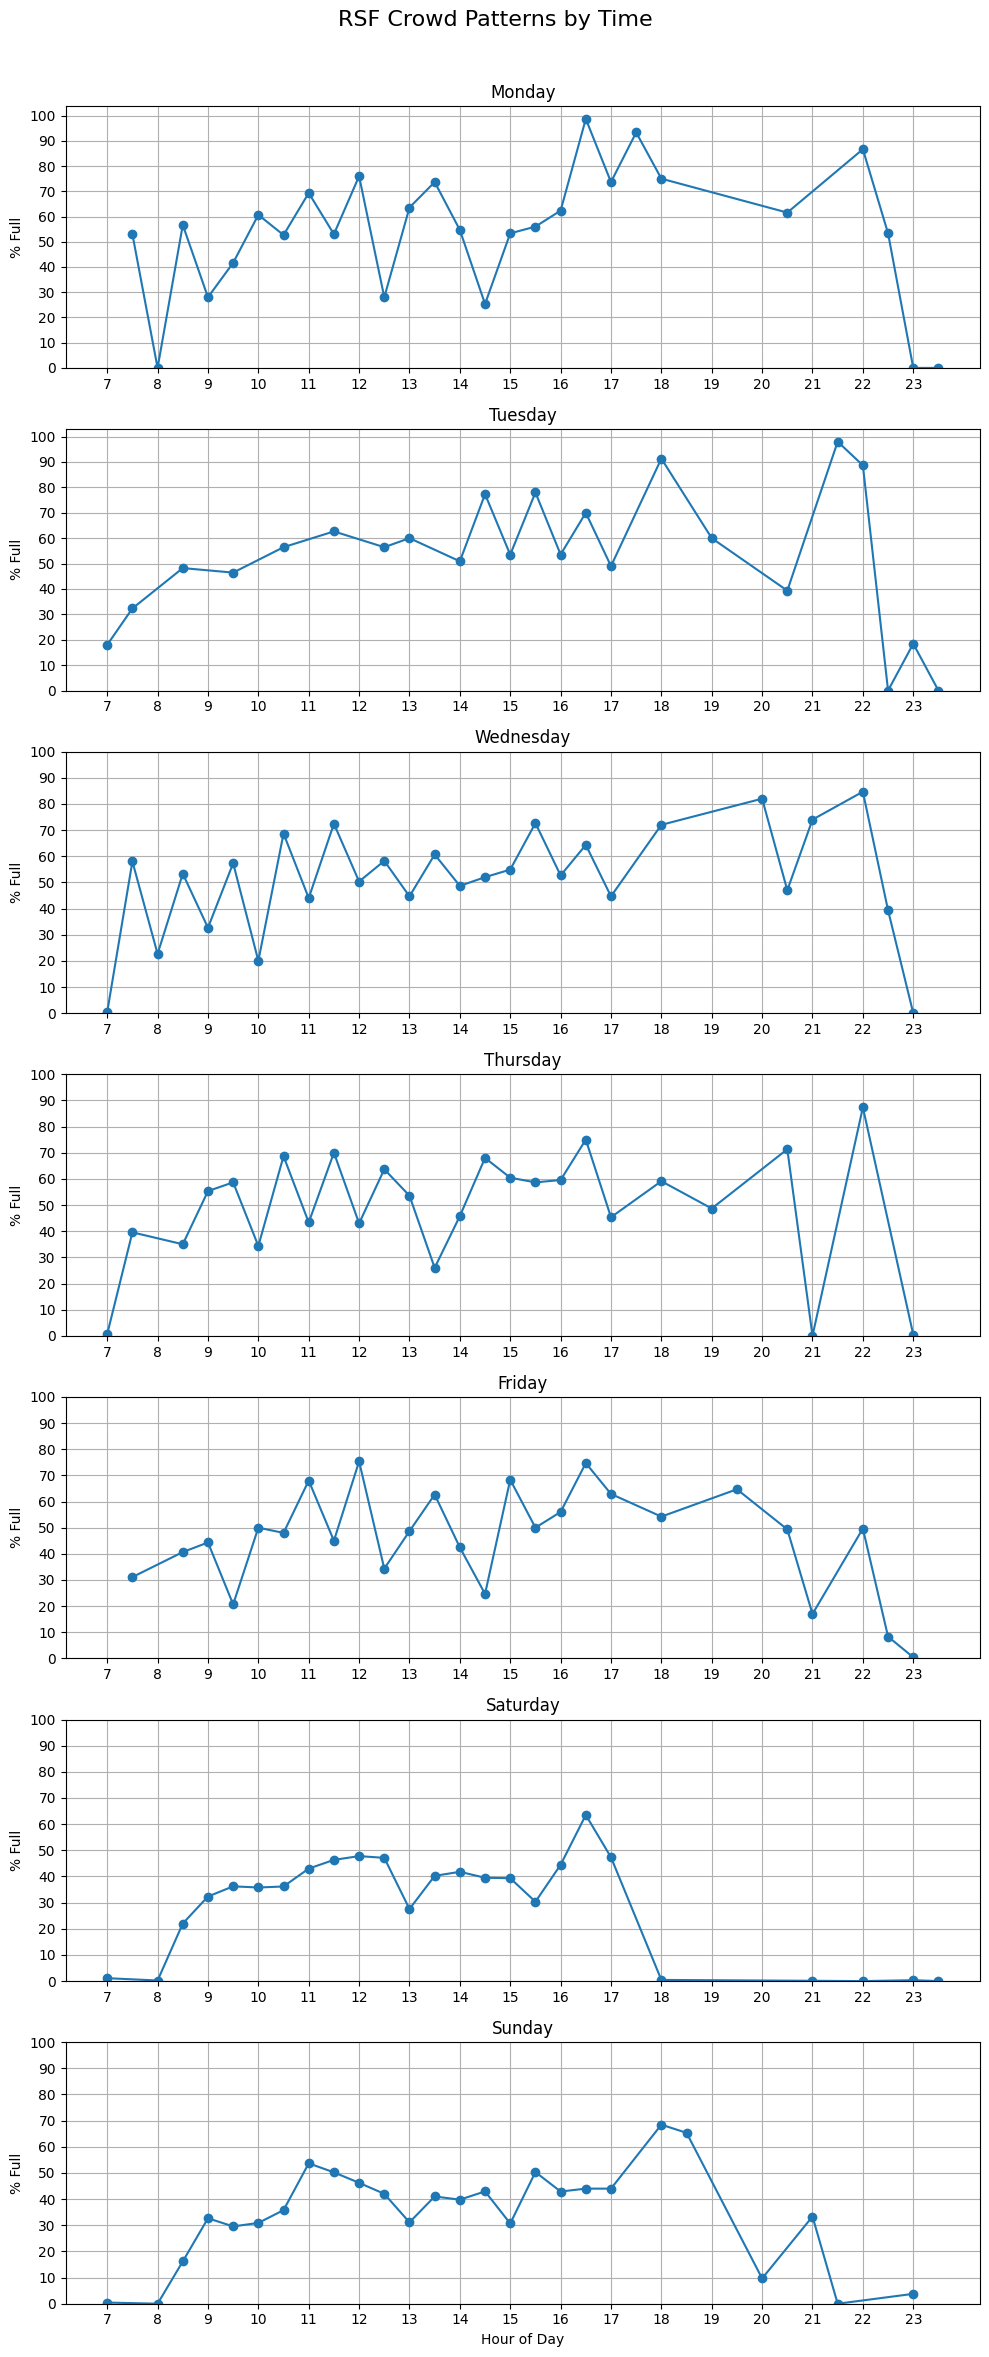
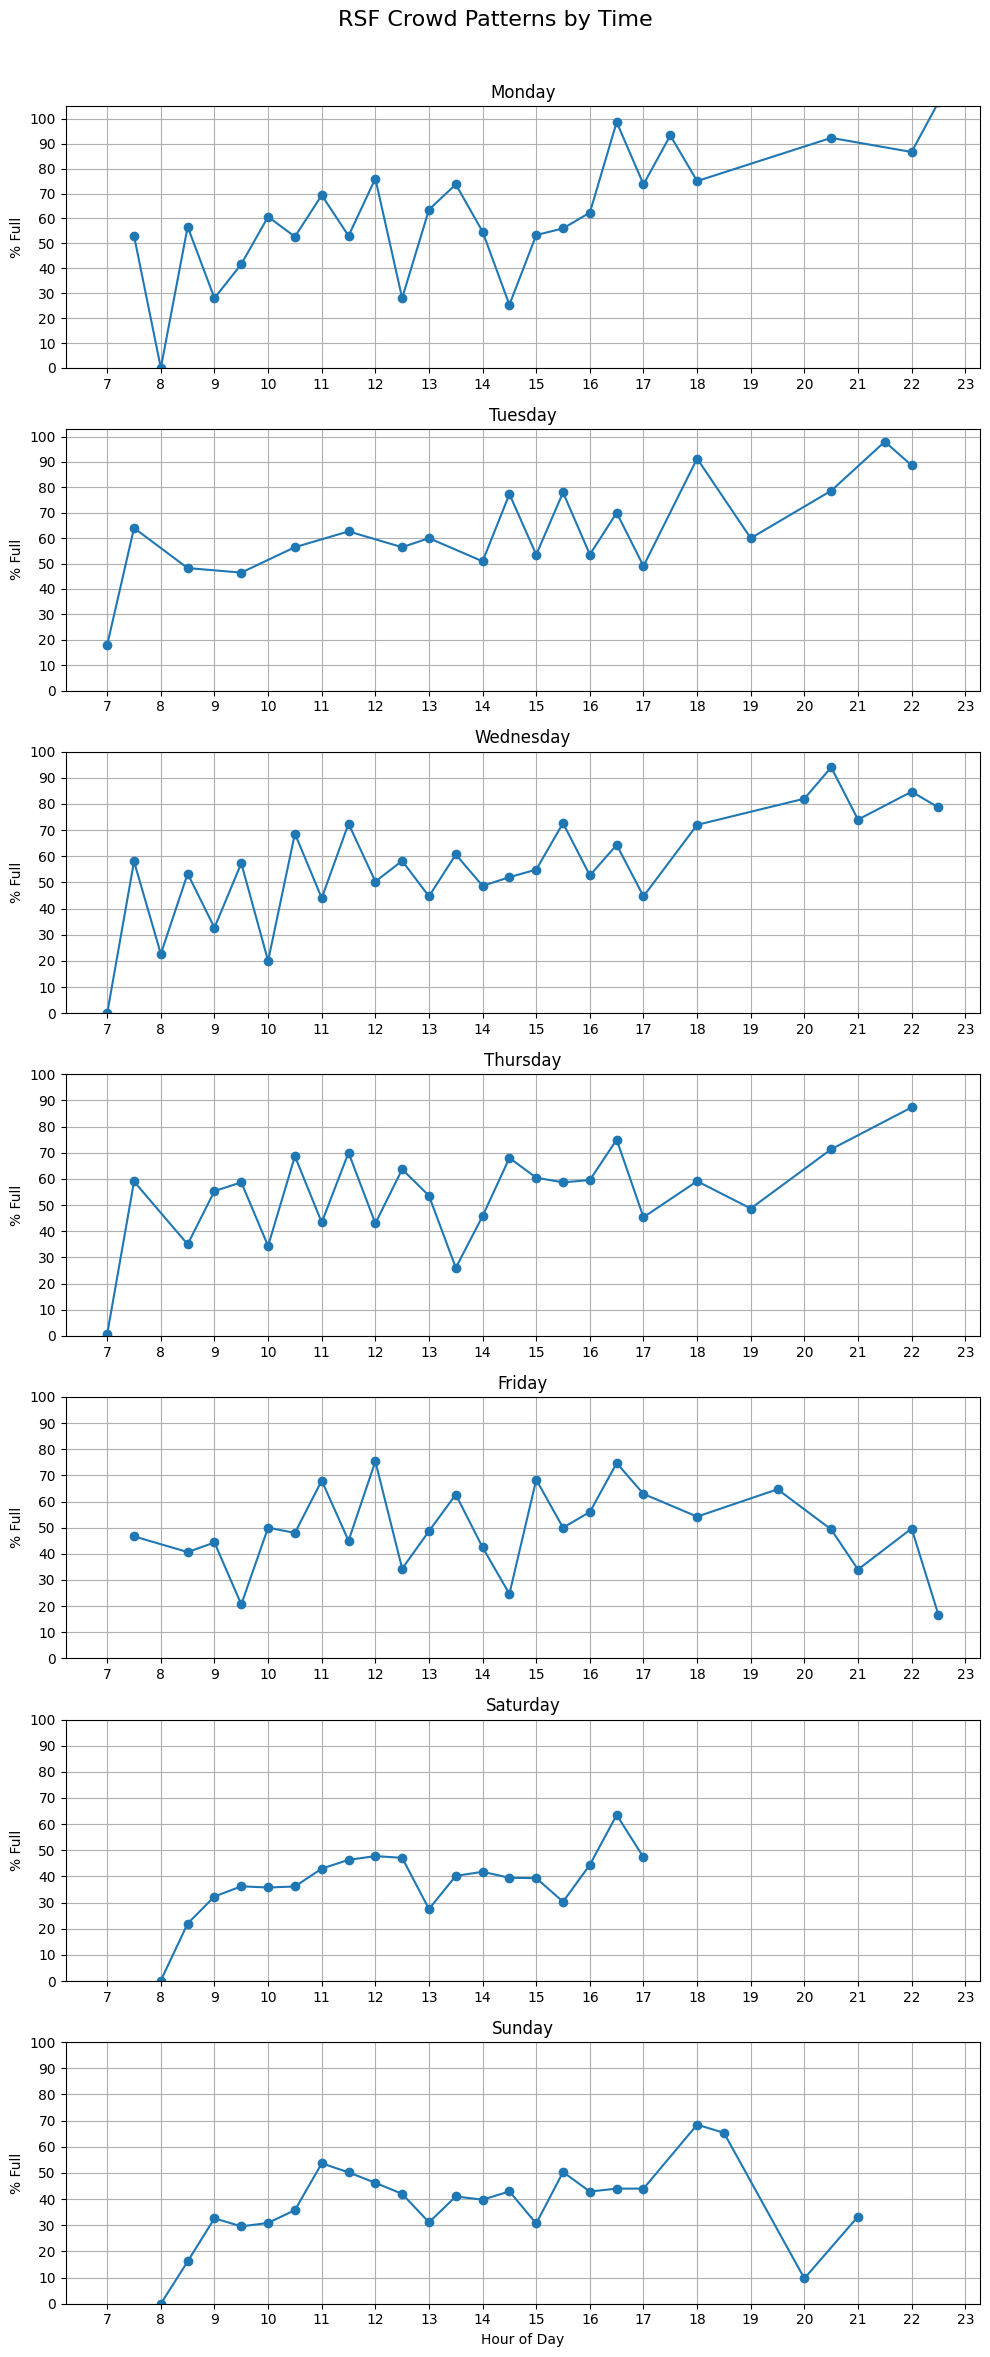
accounted for changed schedule during Spring Break

diff --git a/make_graph.py b/make_graph.py
@@ -8,17 +8,40 @@ import numpy as np
 # Load dataset
 df = pd.read_csv("RSF_Dataset.csv")
 
-# Convert timestamp
 df["timestamp"] = pd.to_datetime(df["timestamp"])
+df["open_hour"] = 7
+df["close_hour"] = 23
 
-# Extract hour
-df["time_bin"] = df["timestamp"].dt.round("30min")
+# weekend opening time
+df.loc[df["weekday"].isin([5,6]), "open_hour"] = 8
 
-# Keep only gym open hours
-df["hour"] = df["time_bin"].dt.hour
-df["minute"] = df["time_bin"].dt.minute
-df = df[(df["hour"] >= 7) & (df["hour"] <= 23)]
+# Saturday closing time
+df.loc[df["weekday"] == 5, "close_hour"] = 18
 
+#SPRING BREAK HOURS
+spring_break = {
+    "2026-03-23": (8, 20),
+    "2026-03-24": (8, 20),
+    "2026-03-25": (8, 20),
+    "2026-03-26": (8, 20),
+    "2026-03-27": (8, 20),
+    "2026-03-28": (8, 18),
+    "2026-03-29": (8, 20)
+}
+
+# Apply spring break overrides
+df["date_str"] = df["timestamp"].dt.strftime("%Y-%m-%d")
+
+for date, (open_h, close_h) in spring_break.items():
+    mask = df["date_str"] == date
+    df.loc[mask, "open_hour"] = open_h
+    df.loc[mask, "close_hour"] = close_h
+
+#Compute is_open
+df["is_open"] = (
+    (df["hour"] >= df["open_hour"]) &
+    (df["hour"] < df["close_hour"])
+).astype(int)
 
 # %%
 # Group data

diff --git a/models/Gym_Crowdedness_Models.py b/models/Gym_Crowdedness_Models.py
@@ -46,13 +46,20 @@ for date, (open_h, close_h) in spring_break.items():
     df.loc[mask, "open_hour"] = open_h
     df.loc[mask, "close_hour"] = close_h
 
-
+#Compute is_open
 df["is_open"] = (
     (df["hour"] >= df["open_hour"]) &
     (df["hour"] < df["close_hour"])
 ).astype(int)
 
-
+#%%
+#add is_open col to dataset
+df.drop(columns=["open_hour", "close_hour", "date_str"], inplace=True)
+df.to_csv(csv_path, index=False)
+#%%
+df_check = pd.read_csv(csv_path)
+print(df_check.columns.tolist())
+print(df_check["is_open"].value_counts())
 #%%
 #Last Percent Full (ML Feature)
 df["last_percent_full"] = df["percent_full"].shift(1)
